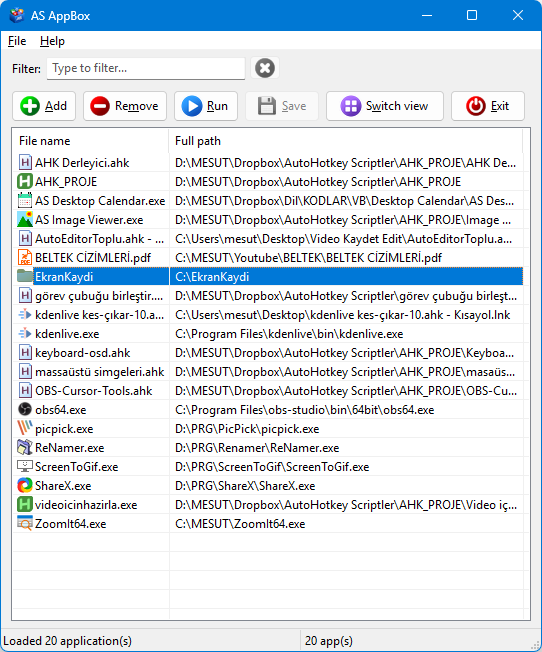
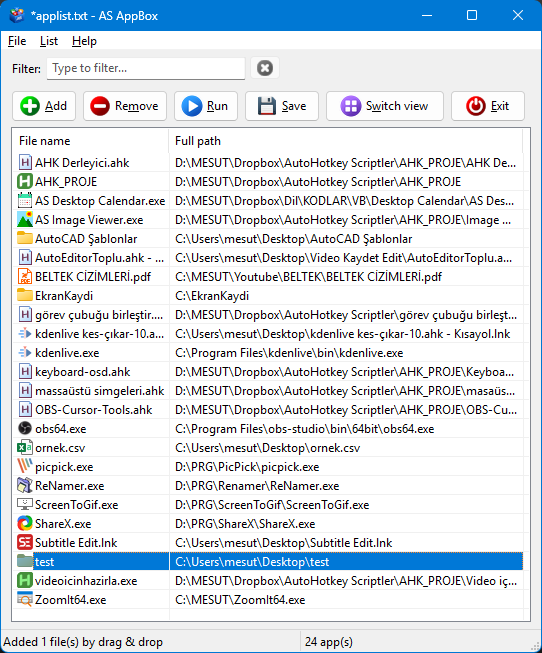
v1.2

diff --git a/README.md b/README.md
@@ -3,7 +3,7 @@
 [![AutoHotkey](https://img.shields.io/badge/Language-AutoHotkey_v2-green.svg)](https://www.autohotkey.com/)
 [![Platform](https://img.shields.io/badge/Platform-Windows-blue.svg)](https://www.microsoft.com/windows)
 [![License](https://img.shields.io/badge/License-GPL_v3-blue.svg)](LICENSE)
-[![Version](https://img.shields.io/badge/Version-1.1-brightgreen.svg)](https://github.com/mesutakcan/AS-AppBox/releases)
+[![Version](https://img.shields.io/badge/Version-1.2-brightgreen.svg)](https://github.com/mesutakcan/AS-AppBox/releases)
 
 ![GitHub stars](https://img.shields.io/github/stars/mesutakcan/AS-AppBox?style=social)
 ![GitHub forks](https://img.shields.io/github/forks/mesutakcan/AS-AppBox?style=social)
@@ -17,15 +17,17 @@ AS AppBox is an application manager that helps you organize and quickly launch y
 
 - Add and remove applications from your list
 - Run selected applications with one click
-- Filter applications with real-time search (with cue banner text)
-- Save and load your application list (UTF-8 encoding)
+- Filter applications by file name or full path with real-time search
+- Manage multiple application lists: open, save, and save as separate `.txt` files
+- Restore the last-used list on startup
 - Drag and drop support for adding apps
 - Context menu for quick actions
 - Multiple view modes (list/icon with small and large icons)
 - Open file locations in Explorer
 - Copy the full path(s) of selected applications
 - Column sorting (click column headers to sort, remembers preference)
-- Window position, size, and view mode remembered across sessions
+- Window title shows the active list name and marks unsaved changes with `*`
+- Window position, size, view mode, sort order, and active list remembered across sessions
 - Toolbar buttons with custom icons (via IconButton class)
 - Compilable to standalone EXE (Ahk2Exe directives included)
 - Automatic legacy encoding migration (ANSI → UTF-8)
@@ -37,11 +39,11 @@ AS AppBox is an application manager that helps you organize and quickly launch y
 
 | File | Description |
 |------|-------------|
-| `AppBox.ahk` | Main application script |
-| `IconButton.ahk` | Icon button class: custom buttons with icon support, grayscale on disabled, DPI-aware |
-| `applist.txt` | Saved application list (auto-generated) |
-| `settings.ini` | User preferences: window state, view mode, sort column (auto-generated) |
-| `icons/` | Toolbar icon files (.ico) used by the application |
+| `src/AppBox.ahk` | Main application script |
+| `src/IconButton.ahk` | Icon button class: custom buttons with icon support, grayscale on disabled, DPI-aware |
+| `src/Lists/applist.txt` | Default application list (created automatically) |
+| `src/settings.ini` | User preferences, including window state, view/sort settings, and last-used list (created automatically) |
+| `src/icons/` | Toolbar icon files (.ico) used by the source script |
 
 ## Installation & Run
 
@@ -56,12 +58,8 @@ AS AppBox is an application manager that helps you organize and quickly launch y
 ### Option 2: Run from source (AHK script)
 
 1. Install [AutoHotkey v2](https://www.autohotkey.com/).
-2. Download the project files:
-   - [AppBox.ahk](src/AppBox.ahk): main script
-   - [IconButton.ahk](src/IconButton.ahk): icon button class
-   - `src/icons/` folder: toolbar icon files
-3. Place all files in the same folder.
-4. Double-click `AppBox.ahk` to run.
+2. Download the project and keep the `src/` folder structure intact, including `AppBox.ahk`, `IconButton.ahk`, and the `icons/` folder.
+3. Double-click [src/AppBox.ahk](src/AppBox.ahk) to run.
 
 ## Usage
 
@@ -69,9 +67,11 @@ AS AppBox is an application manager that helps you organize and quickly launch y
 - **Remove:** Remove selected applications.
 - **Run:** Launch selected applications.
 - **Save:** Save your application list.
+- **Open list / Save list as:** Open another list or save the current list to a separate `.txt` file from the File menu.
 - **Switch view:** Cycle through four view modes: list with small icons, list with large icons, icon view with small icons, icon view with large icons.
 - **Exit:** Exit the application.
 - **Clear filter (×):** The small button next to the filter box clears the current filter text.
+- The window title shows the active list file name. An asterisk (`*`) indicates unsaved changes.
 
 ### Keyboard Shortcuts
 
@@ -79,6 +79,8 @@ AS AppBox is an application manager that helps you organize and quickly launch y
 | Key | Action |
 |-----|--------|
 | `Ctrl+F` | Go to the filter box |
+| `Ctrl+O` | Open a list |
+| `Ctrl+Shift+S` | Save list as |
 | `Insert` | Add applications |
 | `Ctrl+S` | Save list |
 | Drag & drop | Add files or folders |
@@ -99,6 +101,17 @@ AS AppBox is an application manager that helps you organize and quickly launch y
 | Click column header | Sort the list |
 
 ## History
+
+- **v1.2** : 2026-10-21
+  - Added support for multiple named application lists, with Open List and Save List As commands
+  - Added `Ctrl+O` to open a list and `Ctrl+Shift+S` to save the current list under a new name
+  - Saves the active list path in `settings.ini` and restores that list on startup
+  - Moved the default list to the `Lists/` directory and added migration from the previous root-level `applist.txt`
+  - Added a separate file-name column and filtering by file name or full path
+  - Added a `*` marker for unsaved changes to the active list in the window title
+  - Added list read error handling and a shared atomic writer for Save and Save As
+  - Centralized adding files from the picker and drag-and-drop, with duplicate counts in the status bar
+  - Added a trailing slash to drive-root working directories when launching applications
 
 - **v1.1** : 2026-10-13
   - Added `IconButton.ahk`: custom button class with icon support, grayscale-on-disabled, and DPI awareness
